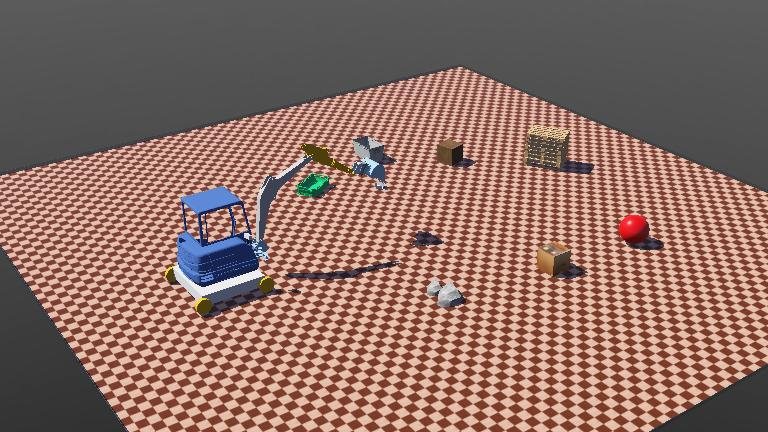
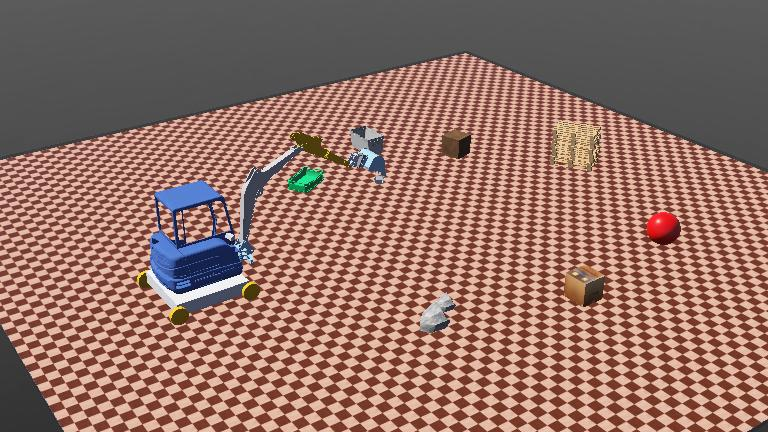
add: move the wheel first, then the turret schema with simplified code

diff --git a/controllers/conventional_color_control/conventional_color_control.py b/controllers/conventional_color_control/conventional_color_control.py
@@ -9,147 +9,106 @@ by: Naufal Mu'afi
 
 """
 
-import math
 import random
 import numpy as np
 from controller import Supervisor, Display
 
-
 MAX_MOTOR_SPEED = 0.7
-
 
 class ConventionalControl(Supervisor):
     def __init__(self):
-        # Initialize the robot instance and timestep
-        super(ConventionalControl, self).__init__()
+        super().__init__()
         self.timestep = int(self.getBasicTimeStep())
         random.seed(42)
 
-        # get the robot node
         self.robot = self.getFromDef("EXCAVATOR")
-
-        # set the speed of the motors
         self.max_motor_speed = MAX_MOTOR_SPEED
-        self.max_wheel_speed = 7.0
-
-        # set the threshold of the target area
+        self.max_wheel_speed = 3.0
         self.target_threshold = 0.1
 
-        # get the floor node
-        arena_tolerance = 1.0
         self.floor = self.getFromDef("FLOOR")
-        size_field = self.floor.getField("floorSize").getSFVec3f()
+        self.set_arena_boundaries()
 
-        # set the boundaries of the arena
+        self.camera = self.init_camera()
+        self.display = self.getDevice("segmented_image_display")
+
+        self.wheel_motors, self.motors, self.sensors = self.init_motors_and_sensors()
+        self.left_wheels = [self.wheel_motors["lf"], self.wheel_motors["lb"]]
+        self.right_wheels = [self.wheel_motors["rf"], self.wheel_motors["rb"]]
+
+    def set_arena_boundaries(self):
+        arena_tolerance = 1.0
+        size_field = self.floor.getField("floorSize").getSFVec3f()
         x, y = size_field
         self.x_max, self.y_max = x / 2 - arena_tolerance, y / 2 - arena_tolerance
         self.x_min, self.y_min = -self.x_max, -self.y_max
 
-        # initialize camera and display device
-        self.camera = self.getDevice("cabin_camera")
-        self.camera.enable(self.timestep)
-        self.camera.recognitionEnable(self.timestep)
-        self.camera.enableRecognitionSegmentation()
-        self.display = self.getDevice("segmented_image_display")
+    def init_camera(self):
+        camera = self.getDevice("cabin_camera")
+        camera.enable(self.timestep)
+        camera.recognitionEnable(self.timestep)
+        camera.enableRecognitionSegmentation()
+        return camera
 
-        # List of names of the motors and sensors
+    def init_motors_and_sensors(self):
         names = ["turret", "arm_connector", "lower_arm", "uppertolow", "scoop"]
         wheel = ["lf", "rf", "lb", "rb"]
 
-        # Initialize motors and sensors
-        self.wheel_motors = {side: self.getDevice(f"wheel_{side}") for side in wheel}
-        self.motors = {name: self.getDevice(f"{name}_motor") for name in names}
-        self.sensors = {name: self.getDevice(f"{name}_sensor") for name in names}
+        wheel_motors = {side: self.getDevice(f"wheel_{side}") for side in wheel}
+        motors = {name: self.getDevice(f"{name}_motor") for name in names}
+        sensors = {name: self.getDevice(f"{name}_sensor") for name in names}
 
-        # Configure motor modes
-        for motor in list(self.wheel_motors.values()) + list(self.motors.values()):
+        for motor in list(wheel_motors.values()) + list(motors.values()):
             motor.setPosition(float("inf"))
             motor.setVelocity(0.0)
 
-        # Enable sensors
-        for sensor in self.sensors.values():
+        for sensor in sensors.values():
             sensor.enable(self.timestep)
 
-        # Get the left and right wheel motors
-        self.left_wheels = [self.wheel_motors["lf"], self.wheel_motors["lb"]]
-        self.right_wheels = [self.wheel_motors["rf"], self.wheel_motors["rb"]]
+        return wheel_motors, motors, sensors
 
     def run(self):
-        # Get the camera width and height
-        width = self.camera.getWidth()
-        height = self.camera.getHeight()
+        width, height = self.camera.getWidth(), self.camera.getHeight()
         frame_area = width * height
 
-        # set the boundaries of the target: x-coordinate
         self.center_x = width / 2
         self.tolerance_x = 1.0
-
-        # set the boundaries of the target: y-coordinate
         self.moiety = 2 * height / 3 + 5
 
-        # SOON TO BE DEVELOPED
-        # self.step(self.timestep)
-
-        # # set the initial velocity of the turret motor randomly
-        # initial_move = random.choice([-1, 1]) * self.max_motor_speed
-        # self.motors["turret"].setVelocity(initial_move)
-
         while self.step(self.timestep) != -1:
-            self.state, target_area, centroid = self.get_and_display_obs(
-                width, height, frame_area
-            )
-            done = self.is_done(target_area, self.target_threshold, centroid)
-
-            if done:
+            self.state, target_area, centroid = self.get_and_display_obs(width, height, frame_area)
+            if self.is_done(target_area, centroid):
                 print("sip.")
-                # self.digging_operation()
+                self.digging_operation()
                 exit(1)
 
     def get_and_display_obs(self, width, height, frame_area):
+        if not self.camera.isRecognitionSegmentationEnabled():
+            return None, 0, [None, None]
+
+        image = self.camera.getImage()
+        data = self.camera.getRecognitionSegmentationImage()
+        if not data:
+            return None, 0, [None, None]
+
+        red_channel, green_channel, blue_channel = self.extract_rgb_channels(image, width, height)
+        self.state = np.array([red_channel, green_channel, blue_channel], dtype=np.uint8)
+
+        self.display_segmented_image(data, width, height)
+        return self.state, *self.recognition_process(self.state, width, height, frame_area)
+
+    def extract_rgb_channels(self, image, width, height):
         red_channel, green_channel, blue_channel = [], [], []
-
-        if (
-            self.camera.isRecognitionSegmentationEnabled()
-            and self.camera.getRecognitionSamplingPeriod() > 0
-        ):
-            image = self.camera.getImage()
-            objects = self.camera.getRecognitionObjects()
-            data = self.camera.getRecognitionSegmentationImage()
-
-            if data:
-                # Loop through each pixel in the image
-                for j in range(height):
-                    red_row, green_row, blue_row = [], [], []
-
-                    for i in range(width):
-                        # Get the RGB values for the pixel (i, j)
-                        red = self.camera.imageGetRed(image, width, i, j)
-                        green = self.camera.imageGetGreen(image, width, i, j)
-                        blue = self.camera.imageGetBlue(image, width, i, j)
-
-                        # Append the RGB values as a tuple to the row
-                        red_row.append(red)
-                        green_row.append(green)
-                        blue_row.append(blue)
-
-                    # Append the row to the pixels list
-                    red_channel.append(red_row)
-                    green_channel.append(green_row)
-                    blue_channel.append(blue_row)
-
-                # new state
-                self.state = np.array(
-                    [red_channel, green_channel, blue_channel], dtype=np.uint8
-                )
-
-                self.display_segmented_image(data, width, height)
-
-                # calculate the target area
-                target_area, centroid = self.recognition_process(
-                    self.state, width, height, frame_area
-                )
-
-        return self.state, target_area, centroid
+        for j in range(height):
+            red_row, green_row, blue_row = [], [], []
+            for i in range(width):
+                red_row.append(self.camera.imageGetRed(image, width, i, j))
+                green_row.append(self.camera.imageGetGreen(image, width, i, j))
+                blue_row.append(self.camera.imageGetBlue(image, width, i, j))
+            red_channel.append(red_row)
+            green_channel.append(green_row)
+            blue_channel.append(blue_row)
+        return red_channel, green_channel, blue_channel
 
     def display_segmented_image(self, data, width, height):
         segmented_image = self.display.imageNew(data, Display.BGRA, width, height)
@@ -157,133 +116,77 @@ class ConventionalControl(Supervisor):
         self.display.imageDelete(segmented_image)
 
     def recognition_process(self, image, width, height, frame_area):
-        target_px = 0
-        x_sum = 0
-        y_sum = 0
+        target_px, x_sum, y_sum = 0, 0, 0
+        x_min, x_max, y_min, y_max = width, 0, height, 0
 
-        # Initialize min and max values for x and y
-        x_min, x_max = width, 0
-        y_min, y_max = height, 0
-
-        # Define color range for red
-        lower_red = np.array([200, 0, 0])
-        upper_red = np.array([255, 50, 50])
+        lower_red, upper_red = np.array([200, 0, 0]), np.array([255, 50, 50])
 
         for y in range(height):
             for x in range(width):
-                # get the RGB values for the pixel (x, y)
-                r = image[0][y][x]  # Red channel
-                g = image[1][y][x]  # Green channel
-                b = image[2][y][x]  # Blue channel
-
-                # check if the pixel matches the target color i.e. red color
-                if (
-                    lower_red[0] <= r <= upper_red[0]
-                    and lower_red[1] <= g <= upper_red[1]
-                    and lower_red[2] <= b <= upper_red[2]
-                ):
+                r, g, b = image[0][y][x], image[1][y][x], image[2][y][x]
+                if lower_red[0] <= r <= upper_red[0] and lower_red[1] <= g <= upper_red[1] and lower_red[2] <= b <= upper_red[2]:
                     target_px += 1
                     x_sum += x
                     y_sum += y
-
-                    # Update min and max x and y
-                    x_min = min(x_min, x)
-                    x_max = max(x_max, x)
-                    y_min = min(y_min, y)
-                    y_max = max(y_max, y)
+                    x_min, x_max = min(x_min, x), max(x_max, x)
+                    y_min, y_max = min(y_min, y), max(y_max, y)
 
         if target_px == 0:
-            # No target found, turn over the turret motor
-            print("No target found.")
-
-            # set the initial velocity of the turret motor randomly
-            initial_move = random.choice([-1, 1]) * self.max_motor_speed
-            self.motors["turret"].setVelocity(initial_move)
-
+            self.search_target()
             return 0, [None, None]
 
         target_area = target_px / frame_area
+        centroid = [x_sum / target_px, y_sum / target_px]
 
-        # Calculate the centroid of the target
-        centroid_x = x_sum / target_px
-        centroid_y = y_sum / target_px
-        centroid = [centroid_x, centroid_y]
+        print(f"Centroid: ({centroid[0]:.2f}, {centroid[1]:.2f}); Target size: {x_max - x_min:.1f}x{y_max - y_min:.1f}; Target area: {target_area * 100:.2f}%")
+        self.move_towards_target(centroid, target_area)
+        return target_area, centroid
 
-        # Calculate the current width and height of the target
-        target_width = x_max - x_min
-        target_height = y_max - y_min
+    def search_target(self):
+        print("No target found.")
+        self.stop_robot()
+        initial_move = random.choice([-1, 1]) * self.max_motor_speed
+        self.motors["turret"].setVelocity(initial_move)
 
-        print(
-            f"Centroid: ({centroid_x:.2f}, {centroid_y:.2f}); Target size: {target_width:.1f}x{target_height:.1f}; Target area: {target_area * 100:.2f}%"
-        )
-
-        # Move the robot forward if the target is not at the bottom of the frame
-        if centroid_y < self.moiety:
-            # Move the robot to center_x the target in the frame
-            if centroid_x < self.center_x - self.tolerance_x:  # Target is on the left
-                if target_area < 0.01:
-                    self.turn_left()
-                    print("Turning left")
-                else:
-                    self.motors["turret"].setVelocity(self.max_motor_speed - 0.3)
-            elif (
-                centroid_x > self.center_x + self.tolerance_x
-            ):  # Target is on the right
-                if target_area > 0.01:
-                    self.turn_right()
-                    print("Turning right")
-                else:
-                    self.motors["turret"].setVelocity(-self.max_motor_speed + 0.3)
+    def move_towards_target(self, centroid, target_area):
+        if centroid[1] < self.moiety or target_area < 0.01:
+            if centroid[0] < self.center_x - self.tolerance_x:
+                self.adjust_turret_and_wheels(target_area, direction="left")
+            elif centroid[0] > self.center_x + self.tolerance_x:
+                self.adjust_turret_and_wheels(target_area, direction="right")
             else:
                 self.motors["turret"].setVelocity(0.0)
-                self.run_wheels(self.max_wheel_speed, "all")
-
-            if target_area < 0.1:
                 self.run_wheels(self.max_wheel_speed, "all")
         else:
             self.stop_robot()
 
-        # Move the robot forward if the target is not at the bottom of the frame
-        # if centroid_y < self.moiety:
-        #     self.run_wheels(self.max_wheel_speed, "all")
-        # else:
-        #     self.stop_robot()
+    def adjust_turret_and_wheels(self, target_area, direction):
+        self.motors["turret"].setVelocity(0.0)
+        if target_area < 0.01:
+            if direction == "left":
+                self.turn_left()
+            elif direction == "right":
+                self.turn_right()
+        else:
+            turret_speed = self.max_motor_speed - 0.3 if direction == "left" else -self.max_motor_speed + 0.3
+            self.motors["turret"].setVelocity(turret_speed)
+            self.run_wheels(self.max_wheel_speed, "all")
 
-        return target_area, centroid
-
-    def is_done(self, target_area, threshold=0.25, centroid=[None, None]):
-        x_threshold = [
-            self.center_x - self.tolerance_x,
-            self.center_x + self.tolerance_x,
-        ]
-
+    def is_done(self, target_area, centroid):
         if centroid == [None, None]:
-            return False  # No valid centroid found, so not done
+            return False
 
-        if (target_area >= threshold) or (
-            centroid[0] > x_threshold[0]
-            and centroid[0] < x_threshold[1]
-            and centroid[1] > self.moiety
-        ):
-            print(
-                f"Target area meets or exceeds {threshold * 100:.2f}% of the frame or the centroid is in {centroid}."
-            )
-            self.run_wheels(0.0, "all")
-            self.motors["turret"].setVelocity(0.0)
+        x_threshold = [self.center_x - self.tolerance_x, self.center_x + self.tolerance_x]
+        if target_area >= self.target_threshold or (x_threshold[0] < centroid[0] < x_threshold[1] and centroid[1] > self.moiety):
+            print(f"Target area meets or exceeds {self.target_threshold * 100:.2f}% of the frame or the centroid is in {centroid}.")
+            self.stop_robot()
             return True
-
         return False
 
     def run_wheels(self, velocity, wheel="all"):
-        if wheel == "all":
-            for motor in self.wheel_motors.values():
-                motor.setVelocity(velocity)
-        elif wheel == "left":
-            for motor in self.left_wheels:
-                motor.setVelocity(velocity)
-        elif wheel == "right":
-            for motor in self.right_wheels:
-                motor.setVelocity(velocity)
+        wheels = self.left_wheels + self.right_wheels if wheel == "all" else self.left_wheels if wheel == "left" else self.right_wheels
+        for motor in wheels:
+            motor.setVelocity(velocity)
 
     def turn_left(self):
         self.run_wheels(-self.max_wheel_speed, "left")
